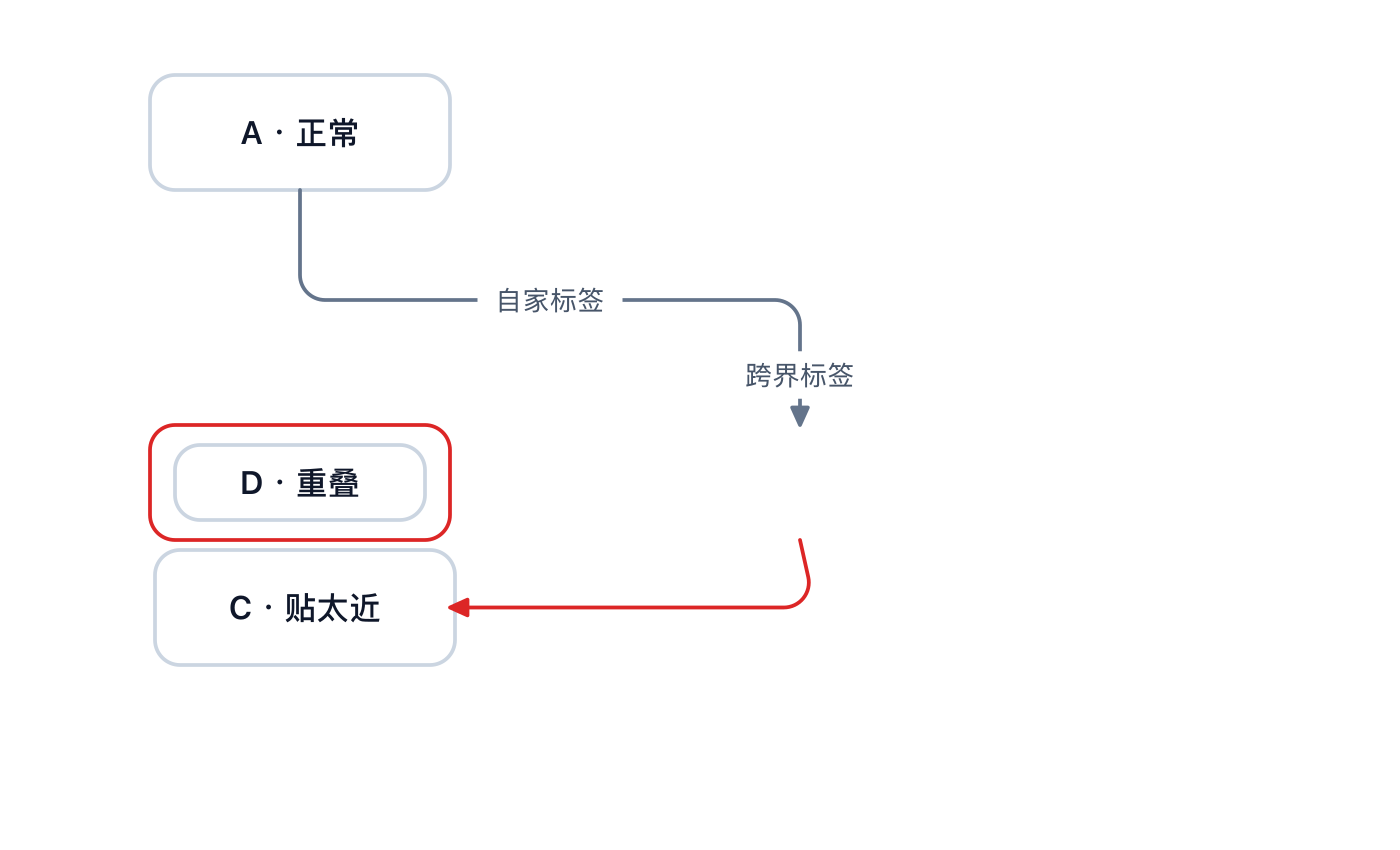
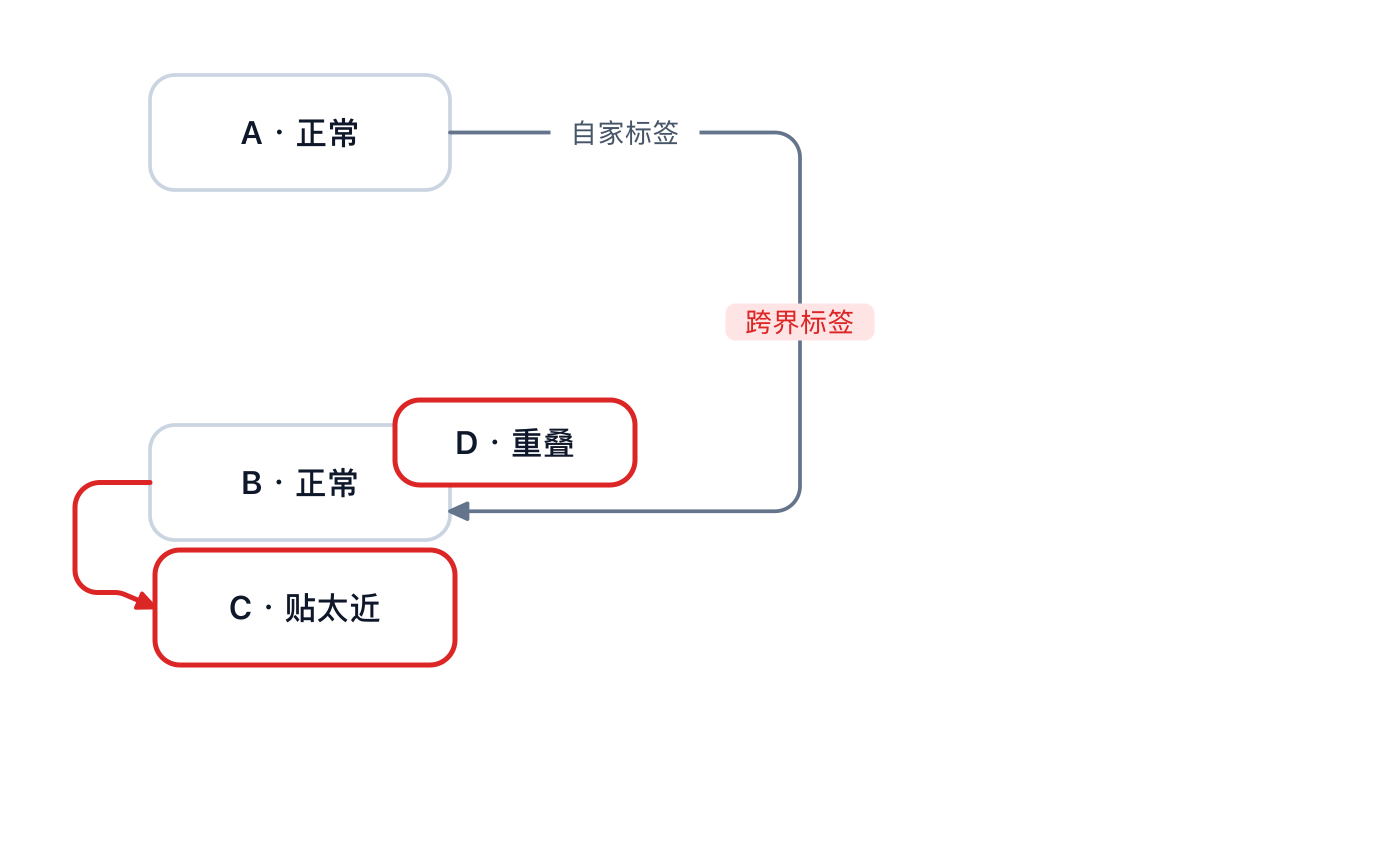
fix(examples): audit-demo 重做 —— 描红认真凶, 几何与教学口径对齐
- 描红集合从 d.subject.id(受害者 b)改取 evidence.other(真凶 crowd/overlap/skew); L-cross 走自身 tone/bg 徽章并注明标签无 overrides 通道
- overlap 微移不再盖死 b 的标签; ok/skew 端点接回盒面(消除 140px 悬空); skew 斜段搬到末段并不再附带触发 no_backtrack ⇒ 诊断恰好=承诺的四类
- 三块标签遮罩走 edgeLabel/labelBoxSize(清掉 260925 前旧口径 h:19)
- 顶层诊断打印收进 import.meta.main(bun test 不再被灌 54 行)
- 测试断言从「含四条」收紧为集合相等(两档), PNG 重出并目视

diff --git a/examples/checks/audit-demo.ts b/examples/checks/audit-demo.ts
@@ -1,52 +1,129 @@
 // =====================================================================
 // audit-demo · 门禁脏样本: 故意埋四类违例, 把诊断逐条打出来给人看(含 evidence 与 supportedFixes)
-//   bun run examples/checks/audit-demo.ts > /tmp/dirty.svg     (违例元素描红, 方便肉眼对账)
+//   bun run examples/checks/audit-demo.ts > /tmp/dirty.svg     (违例元素逐条标出, 方便肉眼对账)
 //
 // 它**不自带判据** —— "违例真的被抓住 / 修法真的给得出来 / 两档判分真的分得开"由
 // `test/audit-demo.test.ts` 守着(judgment 归 test, 示例只管展示; 详见 SKILL「出口纪律」)。
 // 两个场景**具名导出**, 就是为了让那份测试与这份展示读同一份数据。
 // ⚠ 它是**非出口示例**: 出图走裸 `toSVG`, 不过门禁 —— 故意画的违例本来就过不了门禁。
+//
+// 这张图自己病过一场(260925 重做)。五条教训留在这儿, 因为它们是**门禁口径**不是这张图的私事:
+//   · **描红要认准真凶**: 门禁判的是一对盒子, `subject` 只是配对里靠前那一个 —— 旧版直接拿
+//     `subject.id` 描红, 于是受害者 B 被框红, 压它的 D 与贴它的 C 反倒清白。真凶在
+//     `evidence.other` 里(与修法里 `nudge` 要挪的是同一个 id), 见 `culprits`。
+//   · **标签没有覆盖通道**: `ExportOptions` 只有 node / group / edge 三张表, 没有 labelStyles ——
+//     跨界标签的红只能写在它自己的 scene 字段上(`color` / `bg`), 见 `L-cross`。别假装它能描红。
+//   · **端点必须落在盒面上**: 悬空 140px 的箭头在门禁眼里完全合法(它查穿盒, 不查悬空),
+//     却是教学图上最坏的示范 —— 所有面上的点一律 `rectFace` 派生。
+//   · **违例得看得见**: 门禁抓得住、图上看不出的违例, 在教学图里等于没有 —— 6px 斜量落在长跑上
+//     只有 10.6°, 再被圆角一糊就没了; 让它跑短一点(23°)才立得住(见 `SKEW`)。
+//   · **遮罩尺寸只有一处来源**: `labelBoxSize`(上屏那张与 audit 的 `labelRect` 同吃它)。
+//     手写一个 `h: 19` 是 260925 之前的旧口径(现行单行 11 号 = 14.8) —— 手抄尺寸就是第二个真相。
 // =====================================================================
 
-import { type Scene, audit } from '../../src/knives/audit';
+import { type Diagnostic, type Scene, audit } from '../../src/knives/audit';
+import type { Rect } from '../../src/geometry/vec';
+import { rectFace } from '../../src/geometry/box';
+import { edgeLabel } from '../../src/shapes/edge';
+import { THEMES } from '../../src/theme';
 import { sceneChildren } from '../../src/export';
 import { svg } from '../../src/descriptor';
 import { toSVG } from '../../src/serialize';
 
-/** 一份"看起来没问题、其实埋了四类违例"的 scene */
+// 描红的色: **单点例外**才用(角色该写 scene 的 tone 里, 见 nodeStyles 那条口径) —— 三处共用一份
+const RED = '#dc2626';
+
+// --- 版式: 盒位是作者的决策, 一切"面上的点"必须从盒派生 -------------------
+//
+// 手抄一个 `{ x: 320, y: 170 }` 当端点, 就是"箭头指空气、门禁一声不吭"那张最坏示范:
+// 门禁只查穿盒, 不查悬空 —— 悬空的端点要等读者用眼睛发现, 而教学图上不该出这种题。
+const A: Rect = { x: 60, y: 30, w: 120, h: 46 };
+const B: Rect = { x: 60, y: 170, w: 120, h: 46 };
+const CROWD: Rect = { x: 62, y: 220, w: 120, h: 46 };   // 违例①: 与 B 垂直净空只有 4px(standard 要 8 / showcase 要 12)
+const OVERLAP: Rect = { x: 158, y: 160, w: 96, h: 34 }; // 违例②: 真压在 B 的右上角, 但让开 B 的标签行(旧版整块盖死了 B 的字)
+
+const LANE_R = 320; // ok 的右侧走廊 x
+const LANE_L = 30;  // skew 的左侧走廊 x
+
+// 四条边的端点一律 rectFace 派生(面 / t 位上, 不是"差不多在附近")
+const A_R = rectFace(A, 'right');               // (180, 53)   A 的右面中点
+const B_R = rectFace(B, 'right', { t: 0.75 });  // (180, 204.5) B 的右面 3/4 高处 —— 避开压在右上角的 OVERLAP
+const B_L = rectFace(B, 'left');                // (60, 193)   B 的左面中点
+const C_L = rectFace(CROWD, 'left');            // (62, 243)   CROWD 的左面中点
+
+/** ok: A → B, 走右侧走廊绕进来再折回 B 的右面(旧版这条的终点悬在半空) */
+const OK = {
+  id: 'ok', from: 'a', to: 'b',
+  points: [A_R, { x: LANE_R, y: A_R.y }, { x: LANE_R, y: B_R.y }, B_R],
+};
+/**
+ * skew: B → CROWD, 走左侧走廊。
+ *
+ * 违例③ = 末段那 6px 斜量(手排最常见的"看着像正交")。两条讲究都在这一条边里:
+ *   · 斜段放**末段**: 末段没有后继段, 于是只犯 `orthogonal_edges` 一条。斜段若夹在中间, 相邻
+ *     两段点积为负 ⇒ 顺带触发 `no_backtrack` 那个"沉默的第五类"(旧版正是如此, 诊断清单里多一条
+ *     读者就得去问"第五类是哪一类")。
+ *   · 斜段要**短**(14px 跑 6px 落差 = 23°): 6px 落在 32px 的长跑上只有 10.6°, 再被 10px 的圆角
+ *     一糊就看不见了 —— 门禁抓得住、图上却看不出的违例, 在门禁教学图里等于没有。
+ */
+const SKEW_PX = 6;   // 斜量(px): 腰线的 y 与它要进的端口差这么多
+const SKEW_RUN = 14; // 斜段的水平跑长(px): 短才显斜
+const SKEW = {
+  id: 'skew', from: 'b', to: 'crowd',
+  points: [
+    B_L,
+    { x: LANE_L, y: B_L.y },
+    { x: LANE_L, y: C_L.y - SKEW_PX },
+    { x: C_L.x - SKEW_RUN, y: C_L.y - SKEW_PX },
+    C_L,
+  ],
+};
+
+// 标签一律走 edgeLabel(位置尺寸全同源: 外框 = labelBoxSize) —— 不再手写 width / height
+const L_OWN = edgeLabel(OK, '自家标签', { id: 'L-own', at: { x: 250, y: A_R.y } });
+// 违例④: 压在 ok 的竖段上(净空 0), 而它属于 skew → 不豁免。落位取那条竖段的**中点**(派生, 不手抄 y)
+const CROSS_AT = { x: LANE_R, y: (A_R.y + B_R.y) / 2 };
+// 标签的红写在自己的 scene 字段上: `bg` 取主题 rose 的 tint(与渲染同一个主题, 不是手抄色值),
+// 字色走 `color` —— 这就是"标签无覆盖通道"的诚实解法: 徽章看得见, 但它**不是**被覆盖表描红的
+const L_CROSS = edgeLabel(SKEW, '跨界标签', {
+  id: 'L-cross', at: CROSS_AT, color: RED, bg: THEMES.light.tones.rose.tint,
+});
+
+/** 一份"看起来没问题、其实埋了四类违例"的 scene —— 诊断 code 集就该是那四类(判据在 test/) */
 export const dirty: Scene = {
   width: 560,
   height: 340,
   nodes: [
-    { id: 'a', rect: { x: 60, y: 30, w: 120, h: 46 }, label: 'A · 正常' },
-    { id: 'b', rect: { x: 60, y: 170, w: 120, h: 46 }, label: 'B · 正常' },
-    // 违例①: 与 b 垂直间距只有 4px(标准档要 ≥8, showcase 要 ≥12)
-    { id: 'crowd', rect: { x: 62, y: 220, w: 120, h: 46 }, label: 'C · 贴太近' },
-    // 违例②: 完全压在 b 上(重叠)
-    { id: 'overlap', rect: { x: 70, y: 178, w: 100, h: 30 }, label: 'D · 重叠' },
+    { id: 'a', rect: A, label: 'A · 正常' },
+    { id: 'b', rect: B, label: 'B · 正常' },
+    { id: 'crowd', rect: CROWD, label: 'C · 贴太近' },    // 违例①: 贴太近的那个是它(旧版被描红的是受害者 B)
+    { id: 'overlap', rect: OVERLAP, label: 'D · 重叠' },  // 违例②: 压过去的那个是它
   ],
-  edges: [
-    { id: 'ok', from: 'a', to: 'b', points: [{ x: 120, y: 76 }, { x: 120, y: 120 }, { x: 320, y: 120 }, { x: 320, y: 170 }] },
-    // 违例③: 斜段(第 2 段 x 从 320 到 326, 偏离 6px)
-    { id: 'skew', from: 'b', to: 'crowd', points: [{ x: 320, y: 216 }, { x: 326, y: 243 }, { x: 180, y: 243 }] },
-  ],
-  labels: [
-    { id: 'L-own', at: { x: 220, y: 120 }, width: 58, height: 19, ownerEdge: 'ok', text: '自家标签' }, // 自家边 → 豁免
-    // 违例④: 这个标签压在 ok 边的竖段上(净空 0), 而它属于 skew 边 → 不豁免
-    { id: 'L-cross', at: { x: 320, y: 150 }, width: 56, height: 19, ownerEdge: 'skew', text: '跨界标签' },
-  ],
+  edges: [OK, SKEW],
+  labels: [L_OWN, L_CROSS],
+};
+
+// --- 干净对照: 同一套门禁, 该放的全放 --------------------------------
+const X: Rect = { x: 40, y: 30, w: 110, h: 44 };
+const Y: Rect = { x: 250, y: 170, w: 110, h: 44 };
+const CLEAN_LANE_Y = 120;
+const CLEAN_HEAD = rectFace(X, 'bottom');
+const CLEAN_TAIL = rectFace(Y, 'top');
+const CLEAN_E = {
+  id: 'e', from: 'x', to: 'y',
+  points: [CLEAN_HEAD, { x: CLEAN_HEAD.x, y: CLEAN_LANE_Y }, { x: CLEAN_TAIL.x, y: CLEAN_LANE_Y }, CLEAN_TAIL],
 };
 
 export const clean: Scene = {
   width: 420,
   height: 260,
-  nodes: [
-    { id: 'x', rect: { x: 40, y: 30, w: 110, h: 44 }, label: 'X' },
-    { id: 'y', rect: { x: 250, y: 170, w: 110, h: 44 }, label: 'Y' },
-  ],
-  edges: [{ id: 'e', from: 'x', to: 'y', points: [{ x: 95, y: 74 }, { x: 95, y: 120 }, { x: 305, y: 120 }, { x: 305, y: 170 }] }],
-  labels: [{ id: 'L', at: { x: 200, y: 120 }, width: 44, height: 19, ownerEdge: 'e', text: 'route' }],
+  nodes: [{ id: 'x', rect: X, label: 'X' }, { id: 'y', rect: Y, label: 'Y' }],
+  edges: [CLEAN_E],
+  // 自家标签压在自家边上 —— 豁免面就是这一条(两档都不报)
+  labels: [edgeLabel(CLEAN_E, 'route', { id: 'L', at: { x: 200, y: CLEAN_LANE_Y } })],
 };
+
+// --- 诊断打印(只给眼睛看; 判据在 test/) ------------------------------
 
 const show = (title: string, scene: Scene, level: 'standard' | 'showcase') => {
   const r = audit(scene, { level });
@@ -61,21 +138,40 @@ const show = (title: string, scene: Scene, level: 'standard' | 'showcase') => {
   return r;
 };
 
-const r1 = show('dirty scene', dirty, 'standard');
-show('dirty scene', dirty, 'showcase');
-show('clean scene', clean, 'showcase');
+/**
+ * 诊断 → **真凶** id(描红用)。
+ *
+ * `subject` 不总是真凶: `node_gap` / `node_overlap` 判的是一对盒子, 报出来的是配对里**靠前**那个
+ * —— 于是"受害者"被点名, 真凶藏在 `evidence.other` 里(它同时是 supportedFixes 里 `nudge` 要挪的
+ * 那一个, 两处同源)。只有 `node` / `edge` 两类进这个集合: 那正是这里给了覆盖表的两类 —— 标签
+ * **压根没有** labelStyles 这张表(见文件头第二条), 硬塞进来只会得到一个"看着标了、其实没上屏"的假红,
+ * 它的可见化在 scene 自己的 `color` / `bg` 上。
+ */
+const culprits = (diags: Diagnostic[]): string[] => [...new Set(diags.flatMap((d) => {
+  if (d.subject.kind !== 'node' && d.subject.kind !== 'edge') return [];
+  if (d.code === 'node_gap' || d.code === 'node_overlap') {
+    const other = d.evidence.other;
+    return typeof other === 'string' ? [other] : [];
+  }
+  return [d.subject.id];
+}))];
 
-// 断言式自检已搬进 `test/audit-demo.test.ts`(同一份 `dirty` / `clean` 数据, 逐条断言"该抓的抓到、
-// 该放的放过、两档判分分得开、每条诊断都带 supportedFixes")。本文件只负责把诊断打出来给人看。
-
-// 出图: 把 dirty scene 画出来, 违例元素描红(方便肉眼对账)
-// **渲染面直接吃 sceneChildren** —— 不再手拼 children, 否则又是一处"渲染与审计漂开"的入口
+// 断言式自检在 `test/audit-demo.test.ts`(同一份 `dirty` / `clean` 数据): 本文件只把诊断打给人看。
+// 打印与出图都收在 `import.meta.main` 里 —— 被 import 时本模块是**纯数据**, 不往 stderr 灌 54 行噪声
+// (那份测试 import 它, 过去每次 `bun test` 都要带上这段)。
 if (import.meta.main) {
-  const red = new Set(r1.diagnostics.map((d) => d.subject.id));
-  const overrides = <T,>(ids: string[], patch: T) => Object.fromEntries(ids.map((id) => [id, patch]));
+  const r1 = show('dirty scene', dirty, 'standard');
+  show('dirty scene', dirty, 'showcase');
+  show('clean scene', clean, 'showcase');
+
+  // 出图: 把 dirty scene 画出来, 违例元素描红(方便肉眼对账)
+  // **渲染面直接吃 sceneChildren** —— 不再手拼 children, 否则又是一处"渲染与审计漂开"的入口
+  const red = culprits(r1.diagnostics);
+  const entries = <T,>(ids: string[], patch: T): Array<[string, T]> => ids.map((id) => [id, patch]);
   const children = sceneChildren(dirty, {
-    nodeStyles: overrides([...red].filter((id) => dirty.nodes.some((n) => n.id === id)), { stroke: '#dc2626' }),
-    edgeStyles: overrides([...red].filter((id) => dirty.edges.some((e) => e.id === id)), { color: '#dc2626' }),
+    theme: THEMES.light, // 与上面那份 rose tint 同一个主题(遮罩底色不是手抄的色值)
+    nodeStyles: Object.fromEntries(entries(red.filter((id) => dirty.nodes.some((n) => n.id === id)), { stroke: RED, strokeWidth: 2 })),
+    edgeStyles: Object.fromEntries(entries(red.filter((id) => dirty.edges.some((e) => e.id === id)), { color: RED, width: 2 })),
   });
   process.stdout.write(toSVG(svg(dirty.width, dirty.height, children, { 'font-family': 'ui-sans-serif, system-ui, sans-serif' }), { declaration: false }));
 }

diff --git a/test/audit-demo.test.ts b/test/audit-demo.test.ts
@@ -1,29 +1,39 @@
 // =====================================================================
-// audit-demo 那份脏样本的判据 —— 从 `examples/audit-demo.ts` 里搬出来的自检
+// audit-demo 那份脏样本的判据 —— 从 `examples/checks/audit-demo.ts` 里搬出来的自检
 //
 // 为什么搬: 那段自检长在示例脚本内部, 只有"人真的跑一次"才生效, 而它守的是门禁最核心的一条契约
 // —— **该抓的抓到、该放的放过**。搬进 test/ 之后每次 `bun test` 都看它, 示例只负责把诊断打给人看。
-// 场景数据仍只有一份(`examples/audit-demo.ts` 具名导出), 判据与展示不各写一遍。
+// 场景数据仍只有一份(`examples/checks/audit-demo.ts` 具名导出), 判据与展示不各写一遍。
+//
+// ⚠ 判据是**集合相等**不是"包含那四条": 埋四类违例的样本多冒出一条(曾经的 `no_backtrack` —— 手写
+// 斜段夹在中间时相邻两段点积为负, 顺带就犯了)不算"四类都抓到了", 而是口径漂了。沉默的旁观者同样
+// 要红: 这张图就是拿诊断清单当教材的, 多一条读者就会去问"第五类是哪一类"。
 // =====================================================================
 
 import { describe, expect, it } from 'bun:test';
 import { clean, dirty } from '../examples/checks/audit-demo';
 import { audit } from '../src/knives/audit';
 
+/** 埋在 dirty 里的四类违例 —— 与 README / manifest 的「四类违例」同一口径 */
+const BURIED = ['label_clearance', 'node_gap', 'node_overlap', 'orthogonal_edges'];
+
+const codesOf = (level: 'standard' | 'showcase') =>
+  [...new Set(audit(dirty, { level }).diagnostics.map((d) => d.code))].sort();
+
 describe('audit-demo · 脏样本埋的违例必须逐条命中', () => {
   const std = audit(dirty, { level: 'standard' });
   const loose = audit(dirty, { level: 'showcase' });
-  const codes = new Set(std.diagnostics.map((d) => d.code));
 
-  it('四类埋的违例都被抓出来, 且判 FAIL', () => {
-    for (const code of ['node_gap', 'node_overlap', 'orthogonal_edges', 'label_clearance']) {
-      expect(codes.has(code)).toBe(true);
-    }
+  it('两档的诊断 code 集都**恰好**是埋的那四类, 且判 FAIL', () => {
+    expect(codesOf('standard')).toEqual([...BURIED].sort());
+    expect(codesOf('showcase')).toEqual([...BURIED].sort());
     expect(std.pass).toBe(false);
+    expect(loose.pass).toBe(false);
   });
 
   it('showcase 不比 standard 松', () => {
     expect(loose.diagnostics.length).toBeGreaterThanOrEqual(std.diagnostics.length);
+    expect(loose.metrics.errors).toBeGreaterThanOrEqual(std.metrics.errors);
   });
 
   it('干净场景全过 —— 该放的放过', () => {
